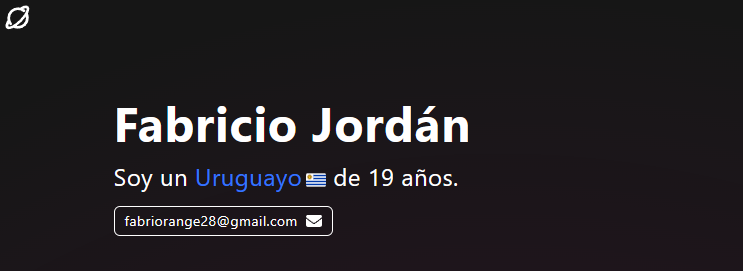
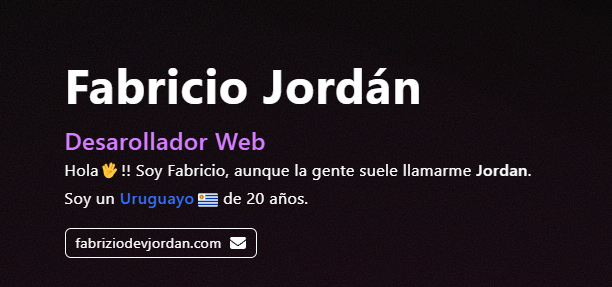
Image updated ReadMe corrected

Changed region(s): [[0.0931, 0.5609, 0.8693, 0.9151], [0.0931, 0.2362, 0.683, 0.5314], [0.0, 0.0295, 0.0621, 0.1181]]

diff --git a/README.md b/README.md
@@ -1,12 +1,12 @@
 <h1 align="left">:vulcan_salute: Hola!, Soy Fabrizio</h1>
 
-<img src="image_web.png" width="600" height="200" />
+<img src="image.png" width="600" height="200" />
 
 ##
  Apasionado por el autodidactismo, los sistemas GNU/Linux y la programación.
  
  Además soy un:
-- Desarrolador Frontend.
+- Desarrollador Frontend.
 - Autodidacta.
 - Uruguayo de 20 años.
 
